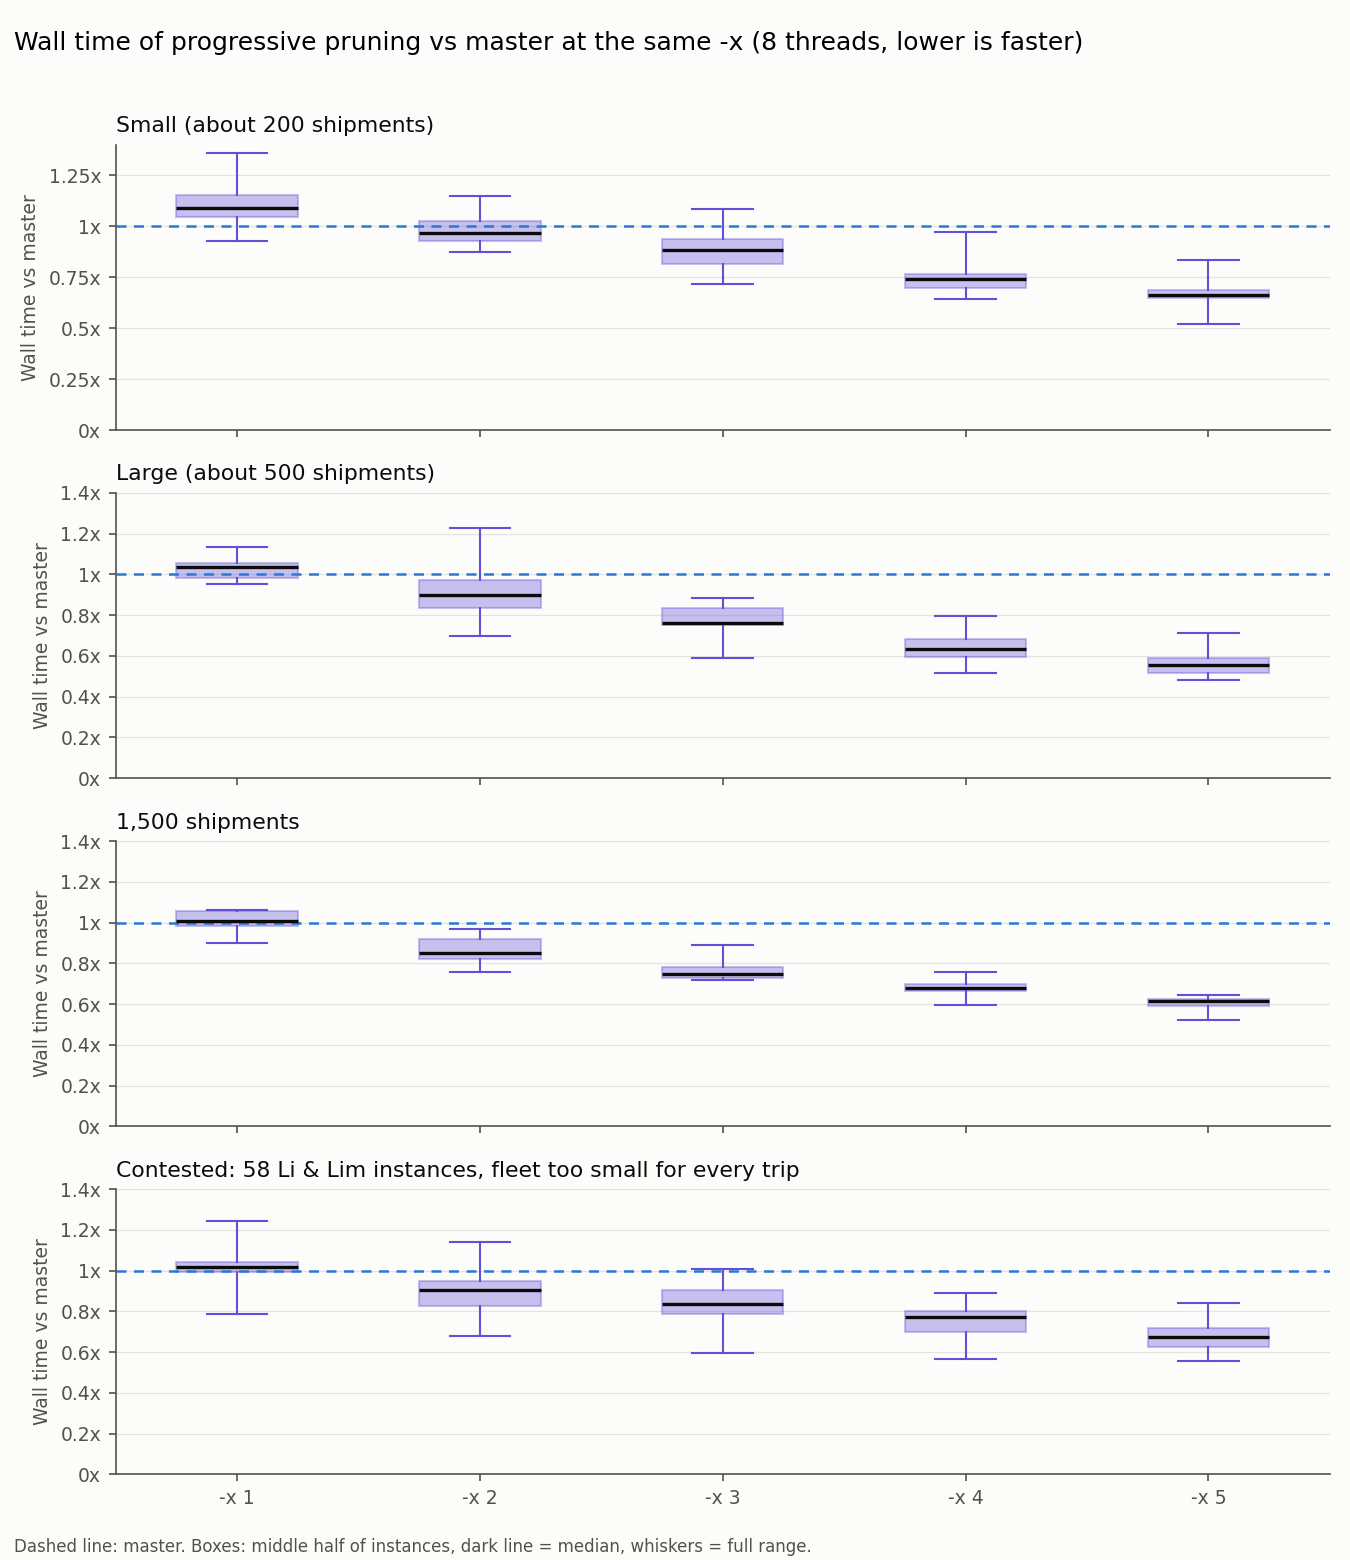
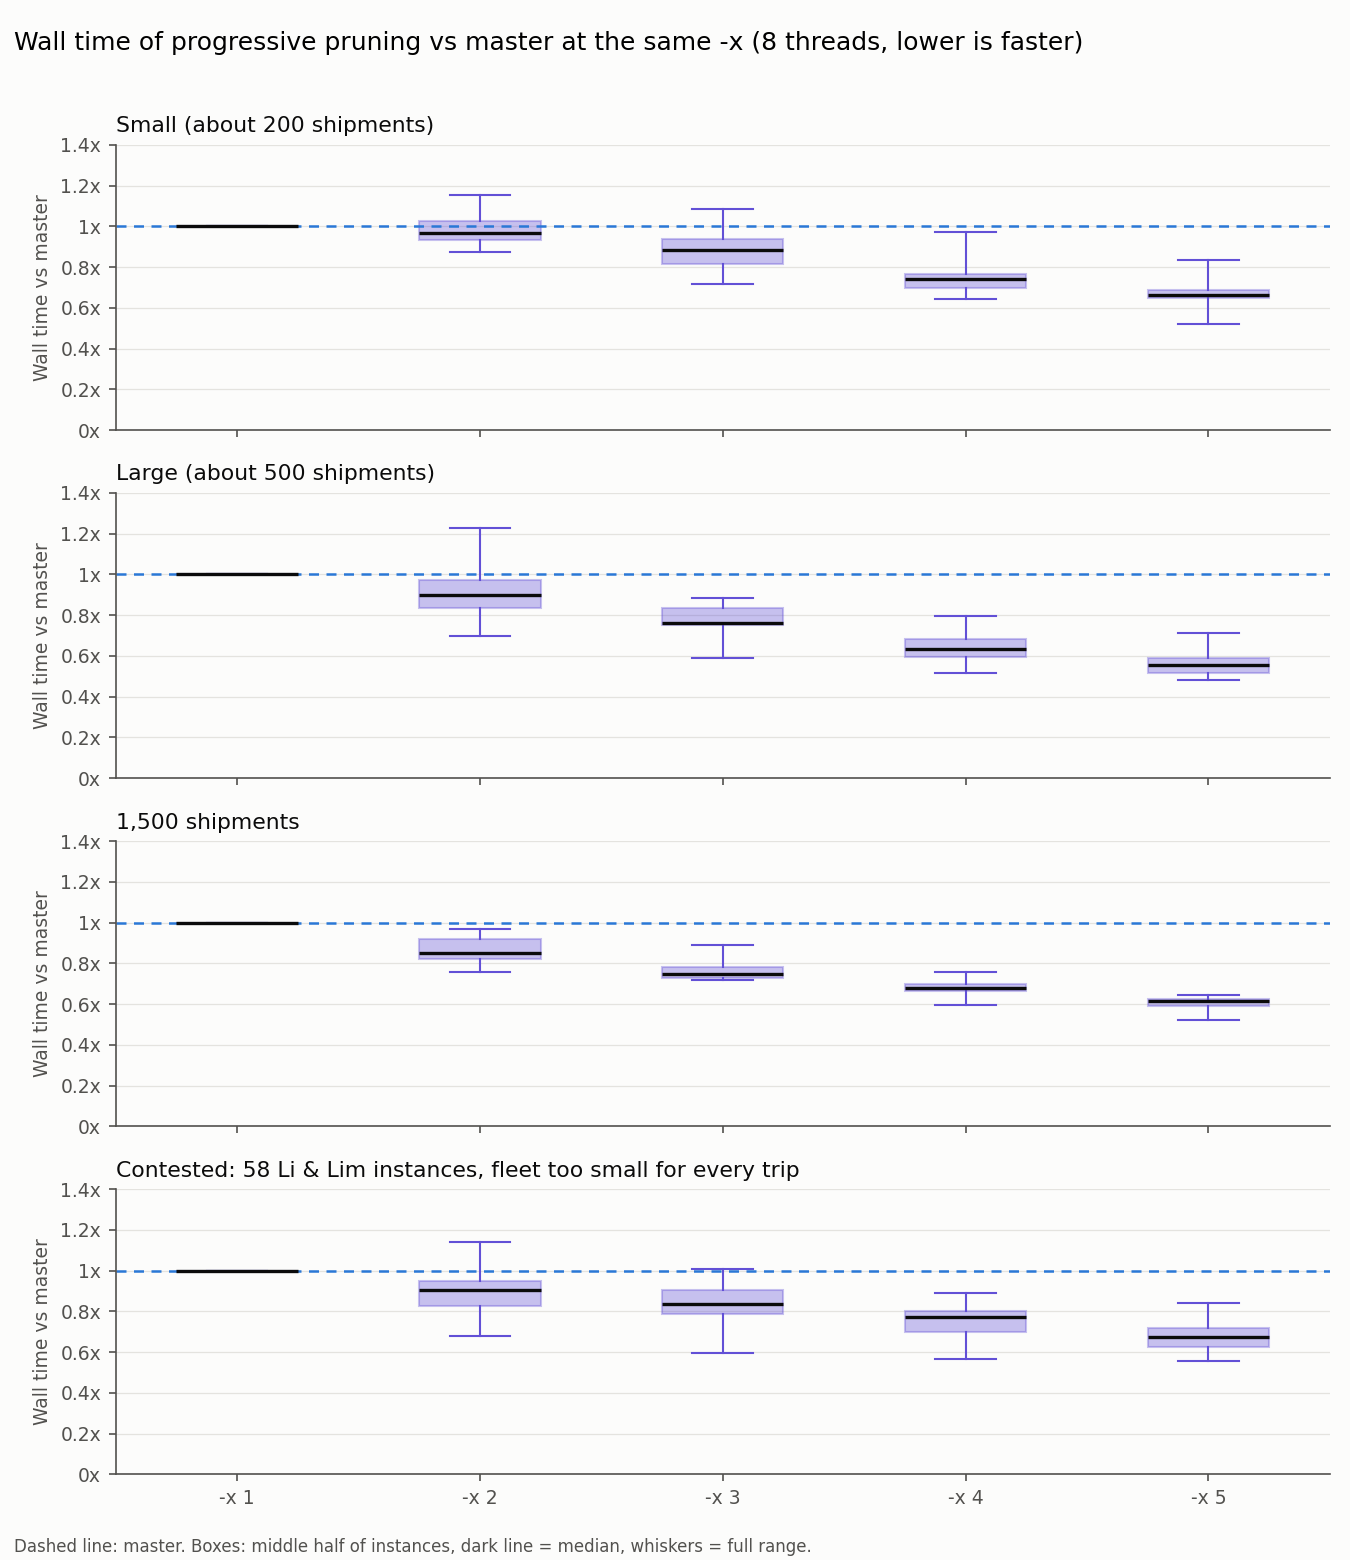
Update comparison: -x 1 runs master's code, review wording

diff --git a/docs/progressive-pruning/README.md b/docs/progressive-pruning/README.md
@@ -4,13 +4,13 @@ With progressive pruning, every search still builds its heuristic solution and r
 
 | `-x` | Searches | Depth | Searches kept after the descent, then after each deepening step |
 |---|---|---|---|
-| 1 | 8 | 1 | 8 |
+| 1 | 8 | 1 | 8 (nothing to cut: master's code path) |
 | 2 | 12 | 2 | 12, 9 |
 | 3 | 16 | 3 | 16, 12, 8 |
 | 4 | 24 | 4 | 24, 18, 12, 9 |
 | 5 | 32 | 5 | 32, 24, 16, 12, 8 |
 
-"Best" uses the existing solution comparison: fewest unassigned tasks, then cost. Threads that would otherwise wait for a cut keep advancing the best-ranked searches, and a search cut while running is stopped. The cuts only look at each search's own score at that depth, so the result does not depend on the number of threads. Runs with a timeout (`-l`) and `-x 0` take the existing code path unchanged.
+"Best" uses the existing solution comparison: priority served, then tasks assigned, then cost, and so on. Threads that would otherwise wait for a cut keep advancing the best-ranked searches, and a search cut while running is stopped. The cuts only look at each search's own score at that depth, so the thread count matters no more than on master: only through which of two heuristic solutions with equal scores is seen first. Runs with a timeout (`-l`), `-x 0` and `-x 1` take the existing code path unchanged.
 
 ## Setup
 
@@ -25,27 +25,27 @@ With progressive pruning, every search still builds its heuristic solution and r
 
 ![Wall time vs master at the same -x](time.png)
 
-At `-x 3` to `-x 5` the gain grows with the level, reaching 0.55x to 0.67x at `-x 5`. At `-x 2` it is 0.85x to 0.97x. `-x 1` keeps every search, so there is nothing to prune, and the coordination costs 1% to 9%.
+At `-x 3` to `-x 5` the gain grows with the level, reaching 0.55x to 0.67x at `-x 5`. At `-x 2` it is 0.85x to 0.97x. `-x 1` has nothing to cut and runs master's code path.
 
 ## Quality
 
 ![Cost and trips served vs master at the same -x](quality.png)
 
-Pruning can only drop searches master would have kept, so a solution is never better than master's. On most instances it is identical. Where it differs, the difference is small compared with master's own run-to-run variation: the grey box shows master `-x 5` on three shuffled input orders of the same instances.
+Pruning can only drop searches master would have kept, so apart from exact ties a solution is never better than master's. On most instances it is identical. Where it differs, the difference is small compared with master's own run-to-run variation: the grey box shows master `-x 5` on three shuffled input orders of the same instances.
 
 | Instances | -x | Wall time vs master (median) | Mean cost change | Instances changed | Instances above +0.5% |
 |---|---|---|---|---|---|
-| Small (about 200 shipments) | 1 | 1.09x | +0.00% | 0 of 12 | 0 |
+| Small (about 200 shipments) | 1 | 1.00x | +0.00% | 0 of 12 | 0 |
 | Small (about 200 shipments) | 2 | 0.97x | +0.08% | 1 of 12 | 1 |
 | Small (about 200 shipments) | 3 | 0.88x | +0.16% | 1 of 12 | 1 |
 | Small (about 200 shipments) | 4 | 0.74x | +0.09% | 2 of 12 | 1 |
 | Small (about 200 shipments) | 5 | 0.66x | +0.05% | 1 of 12 | 1 |
-| Large (about 500 shipments) | 1 | 1.04x | +0.00% | 0 of 18 | 0 |
+| Large (about 500 shipments) | 1 | 1.00x | +0.00% | 0 of 18 | 0 |
 | Large (about 500 shipments) | 2 | 0.90x | +0.00% | 0 of 18 | 0 |
 | Large (about 500 shipments) | 3 | 0.76x | +0.12% | 3 of 18 | 2 |
 | Large (about 500 shipments) | 4 | 0.63x | +0.35% | 5 of 18 | 3 |
 | Large (about 500 shipments) | 5 | 0.55x | +0.24% | 6 of 18 | 5 |
-| 1,500 shipments | 1 | 1.01x | +0.00% | 0 of 8 | 0 |
+| 1,500 shipments | 1 | 1.00x | +0.00% | 0 of 8 | 0 |
 | 1,500 shipments | 2 | 0.85x | +0.02% | 1 of 8 | 0 |
 | 1,500 shipments | 3 | 0.75x | +0.00% | 0 of 8 | 0 |
 | 1,500 shipments | 4 | 0.68x | +0.00% | 0 of 8 | 0 |
@@ -62,7 +62,7 @@ Master's own variation, `-x 5` on 3 shuffled input orders vs the original order:
 
 | -x | Wall time vs master (median) | Trips served vs master (total) | Instances with fewer trips | Share of all 29,869 trips |
 |---|---|---|---|---|
-| 1 | 1.02x | +0 | 0 of 58 | 0% |
+| 1 | 1.00x | +0 | 0 of 58 | 0% |
 | 2 | 0.91x | +0 | 0 of 58 | 0% |
 | 3 | 0.84x | −24 | 6 of 58 | −0.08% |
 | 4 | 0.77x | −9 | 5 of 58 | −0.03% |
@@ -80,14 +80,14 @@ Run on this branch against a master build, on the same machine:
 
 | Check | Result |
 |---|---|
-| Same solutions as the measured prototype runs (20 instances x `-x 1` to `-x 5`) | 99 of 100 identical. LC2_10_2 (contested) at `-x 3` differs and serves 1 more trip. |
+| Same solutions as the measured prototype runs (20 instances x `-x 1` to `-x 5`) | 99 of 100 identical. LC2_10_2 (contested) at `-x 3` differs and serves 1 more trip: a paused search resumes from its best solution, where the prototype carried on from a current solution with exactly equal score. |
 | Same solution at 1, 2, 4, 8 and 16 threads (7 instances, `-x 5`) | identical on all 7 |
 | `-l 2` (timeout path) and `-x 0` | run as on master; `-x 0` gives the same solution |
-| Peak memory at `-x 5`, 8 threads | 0.87x to 0.89x of master (1,500 shipments: 1.89 GB vs 2.13 GB) |
-| Solving time at `-x 5`, 8 threads, same cost as master | 0.49x to 0.63x of master on 4 instances |
+| Peak memory at `-x 5`, 8 threads | 0.86x to 0.89x of master (1,500 shipments: 1.89 GB vs 2.13 GB) |
+| Solving time at `-x 5`, 8 threads, same cost as master | 0.47x to 0.62x of master on 4 instances |
 
 Between cuts, a paused search keeps only its best solution and the depth it completed, so at most one local search per thread is held in memory. Master's behaviour is the same, which is why peak memory does not grow.
 
 Master itself can return two different solutions with equal cost depending on thread count (LC1_4_1 at `-t 16`), when two heuristics produce different plans with the same score. That tie is untouched by this change.
 
-The numbers above come from the measured runs of the prototype this branch was cleaned up from. Check 1 above shows that the branch reproduces them.
+The numbers above come from the measured runs of the prototype this branch was cleaned up from, with `-x 1` taken as master since it now runs master's code. Check 1 above shows that the branch reproduces them.
